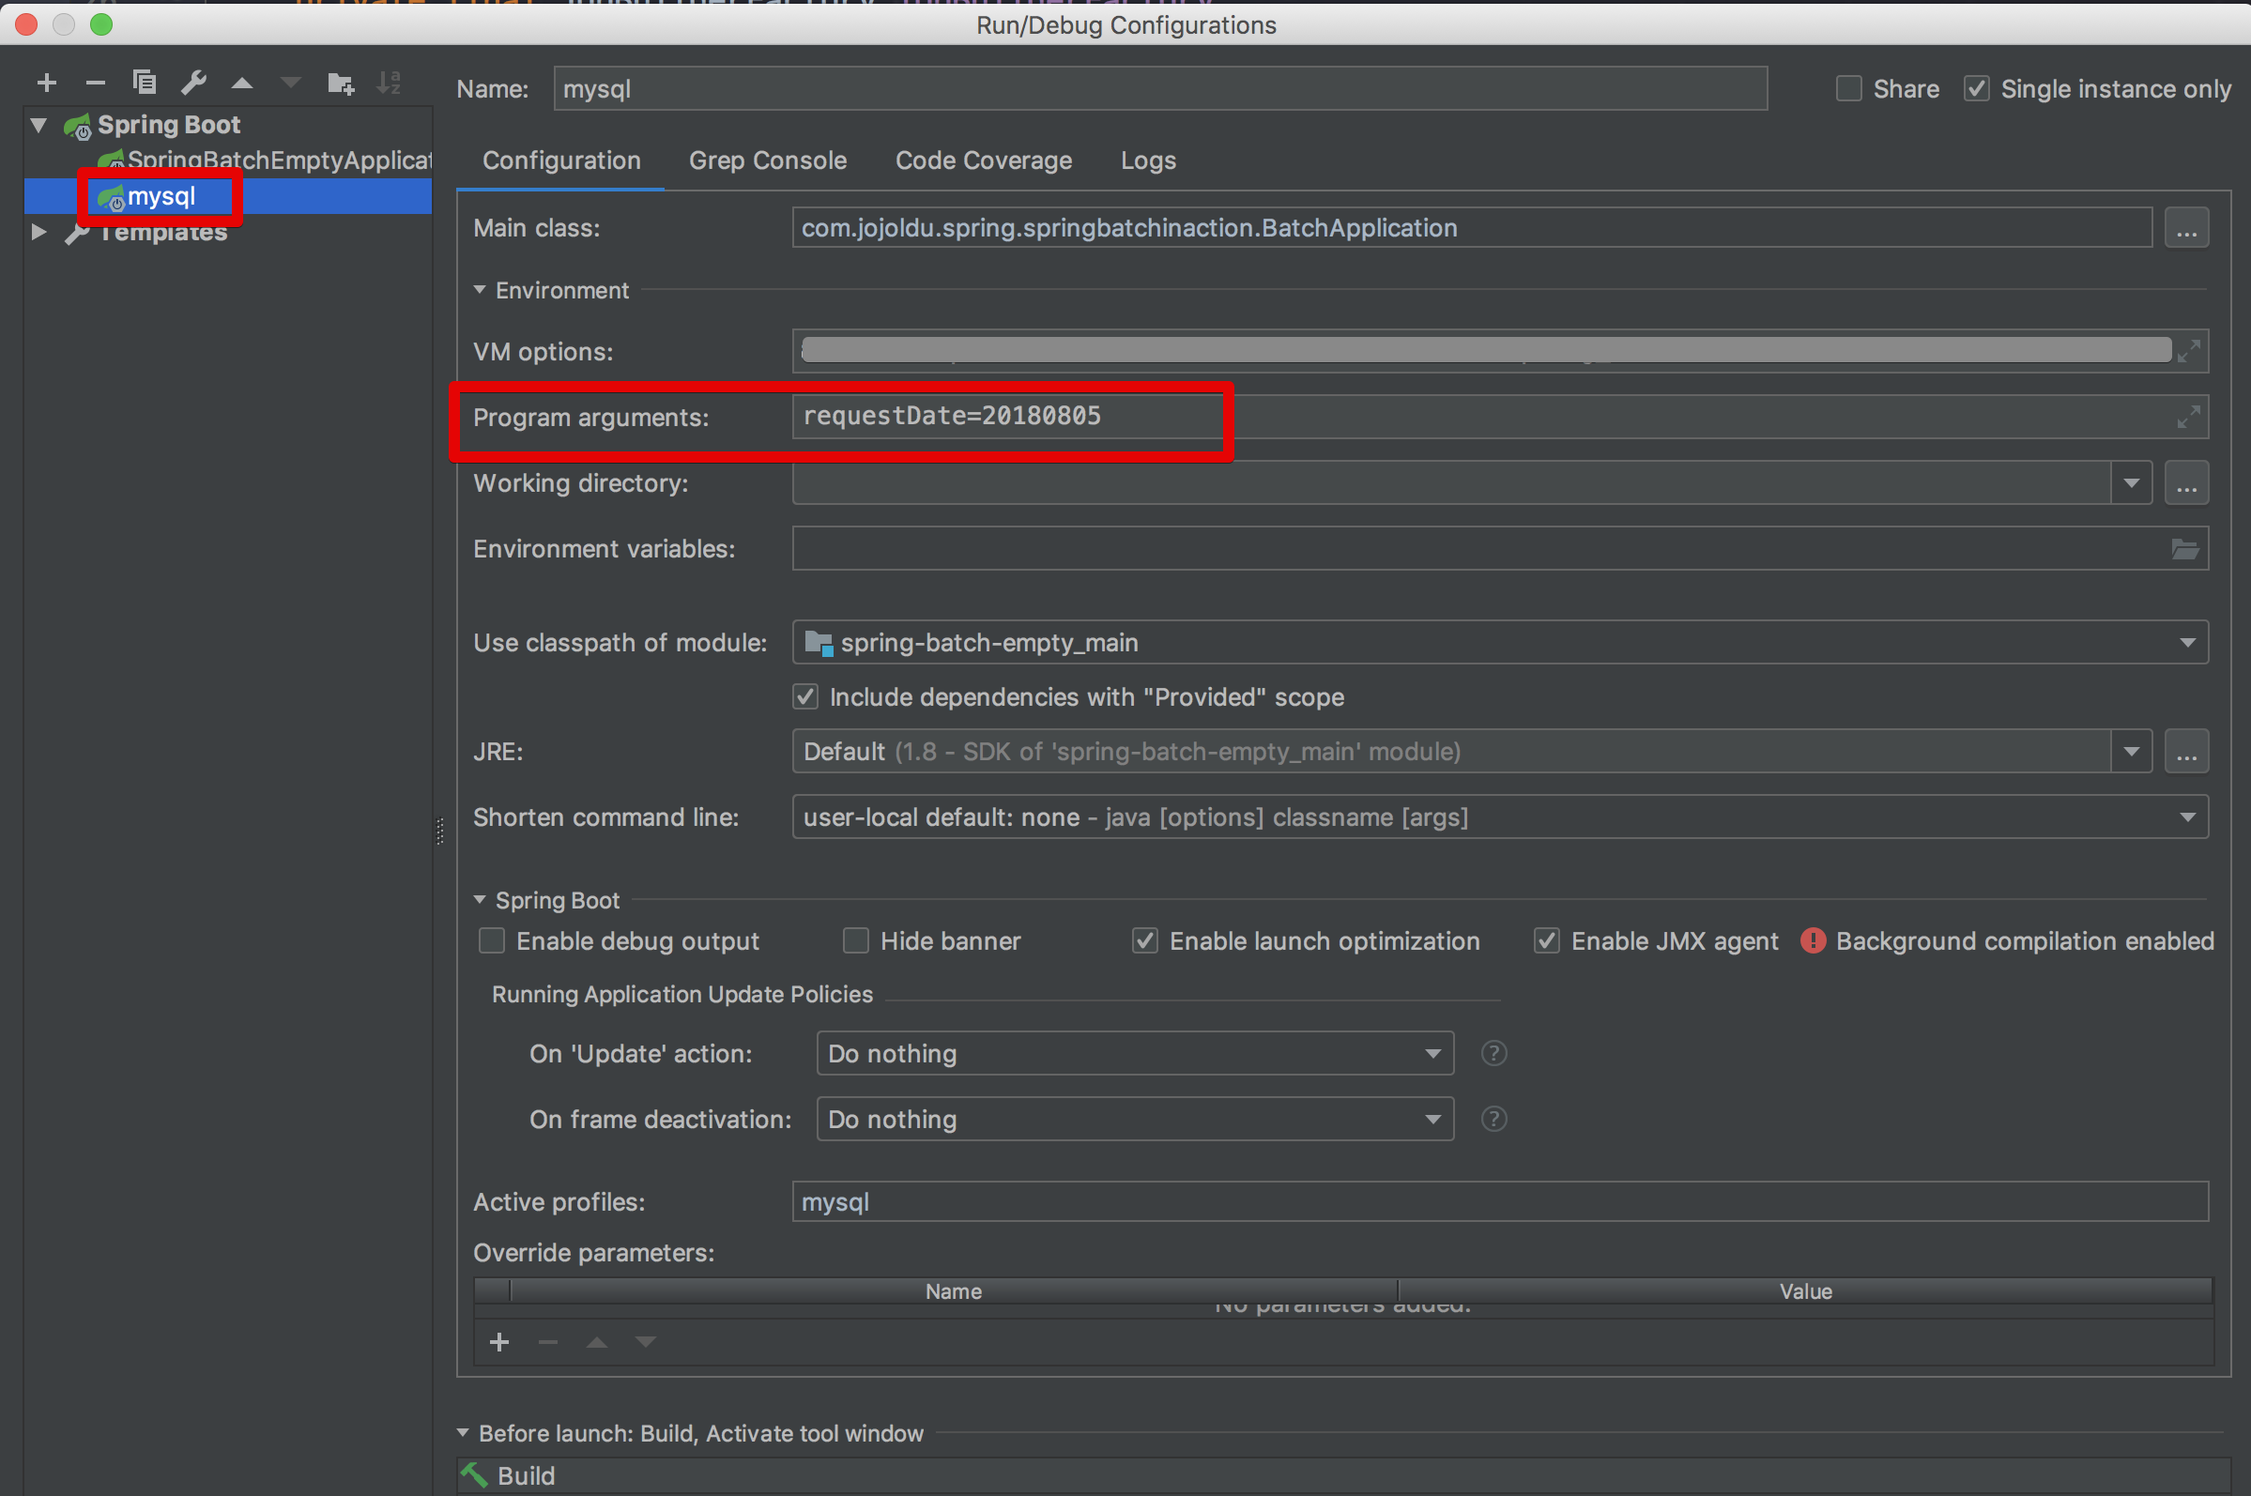
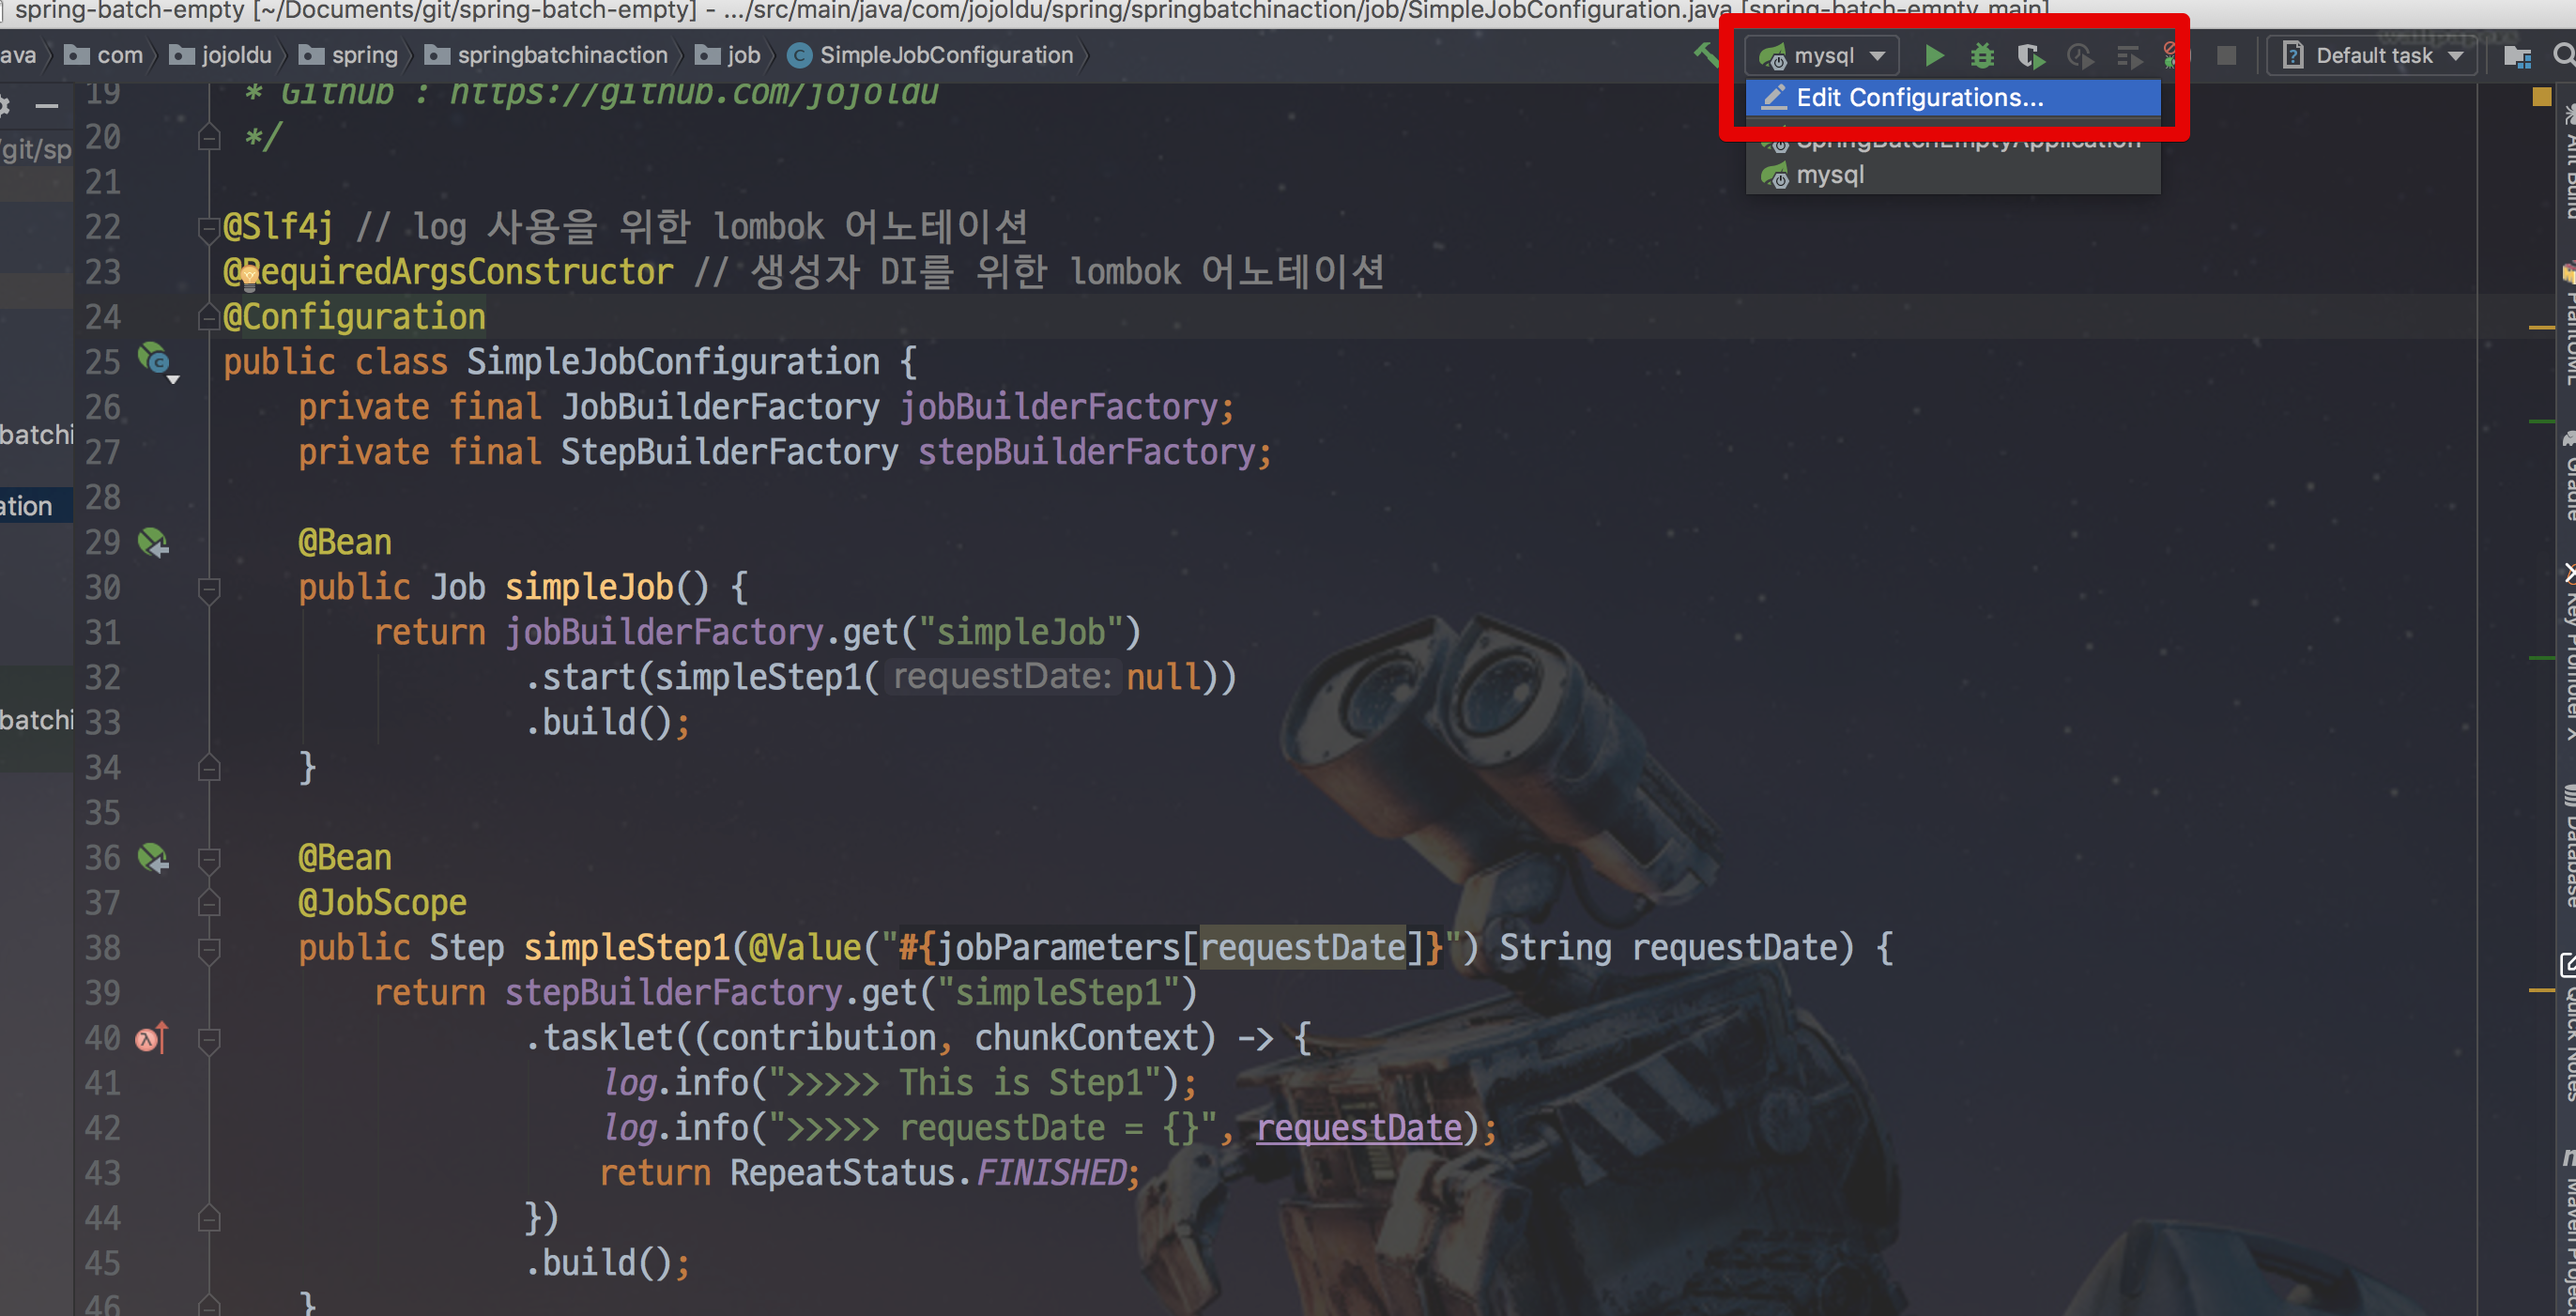
BATCH_JOB_INSTACNE 편 완성

diff --git a/2_Job생성.md b/2_Job생성.md
@@ -360,8 +360,46 @@ public class SimpleJobConfiguration {
 > Batch Job Parameter는 이후 챕터에서 좀 더 자세히 소개드리겠습니다.  
 지금은 메타 테이블에 대한 이해를 위한 샘플 코드이니 **이렇게 하면 Job Parameter를 사용할 수 있다 정도로만** 이해하시면 됩니다. :)
 
+자 그럼 이제 Job Parameter를 넣어서 Batch 를 실행해보겠습니다.  
+좀 전과 마찬가지로 본인의 IDE 실행환경 탭을 클릭해서 설정창으로 갑니다.
 
 ![simpleJob11](./images/2/simpleJob11.png)
+
+아래와 같이 **Program arguments**에 ```requestDate=20180805``` 를 입력합니다.
+
+![simpleJob12](./images/2/simpleJob12.png)
+
+저장 하시고, 다시 실행을 해봅니다.  
+그러면!  
+Job Parameter가 아주 잘 전달되어 로그가 찍힌것을 볼 수 있습니다.
+
+![simpleJob13](./images/2/simpleJob13.png)
+
+BATCH_JOB_INSTANCE을 다시 볼까요?
+
+![meta1-1](./images/2/meta1-1.png)
+
+새로운 Job Instance가 추가되었습니다!  
+자 그럼 진짜 Job Parameter 가 같으면 새로 생성되지 않는지 볼까요?  
+같은 파라미터로 다시 한번 IDE에서 Batch 를 실행해봅니다.
+
+![meta1-2](./images/2/meta1-2.png)
+
+JobInstanceAlreadyCompleteException 라는 Exception과 함께 에러 메세지가 있습니다.  
+
+```
+A job instance already exists and is complete for parameters={requestDate=20180805}.  If you want to run this job again, change the parameters.
+```
+
+같은 파라미터로는 Job을 실행시킬수 없다고 하죠?  
+파라미터를 변경해서 실행해보겠습니다.  
+이번에는 ```requestDate=20180806``` 으로 합니다.
+
+![simpleJob14](./images/2/simpleJob14.png)
+
+정상적으로 수행되었고, ```BATCH_JOB_INSTANCE``` 테이블에도 정상적으로 추가 생성되었습니다!
+
+![meta1-3](./images/2/meta1-3.png)
 
 ![meta2](./images/2/meta2.png)
 
